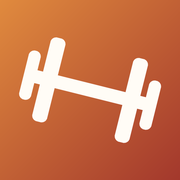
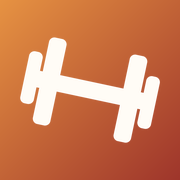
Иконка в высоком разрешении и с безопасной зоной
Рисуется восьмикратным сглаживанием, гриф утолщён ради читаемости на
48 пикселях. Добавлен отдельный вариант с безопасной зоной для круглых
масок и размер 192. Генератор make_icons.py собирает всё разом,
включая слои адаптивной иконки Android.

Changed region(s): [[0.0833, 0.1944, 0.6944, 0.7778], [0.3056, 0.2222, 0.9167, 0.7778], [0.6389, 0.7778, 0.7222, 0.8056]]

diff --git a/sw.js b/sw.js
@@ -1,6 +1,6 @@
 // Кэш приложения: работает офлайн, обновляется при смене VERSION
-const VERSION = 'fullbody-v24';
-const ASSETS = ['.', 'index.html', 'data.js?v=7', 'manifest.json', 'icon-180.png', 'icon-512.png'];
+const VERSION = 'fullbody-v25';
+const ASSETS = ['.', 'index.html', 'data.js?v=7', 'manifest.json', 'icon-180.png?v=2', 'icon-192.png?v=2', 'icon-512.png?v=2', 'icon-512-maskable.png'];
 
 self.addEventListener('install', e => {
   e.waitUntil(caches.open(VERSION).then(c => c.addAll(ASSETS)).then(() => self.skipWaiting()));

diff --git a/index.html b/index.html
@@ -9,8 +9,8 @@
 <meta name="apple-mobile-web-app-capable" content="yes">
 <meta name="apple-mobile-web-app-status-bar-style" content="default">
 <meta name="apple-mobile-web-app-title" content="Fullbody">
-<link rel="apple-touch-icon" href="icon-180.png">
-<link rel="icon" href="icon-180.png">
+<link rel="apple-touch-icon" href="icon-180.png?v=2">
+<link rel="icon" href="icon-180.png?v=2">
 <style>
 /* Тема задаёт только палитру: фон, линии и три акцента. Остальное общее. */
 :root{

diff --git a/make_icons.py b/make_icons.py
@@ -1,0 +1,102 @@
+# -*- coding: utf-8 -*-
+"""Генерирует иконки: адаптивные слои для Android, иконки для сайта и Play Market.
+
+Рисуем с восьмикратным запасом и уменьшаем по Ланцошу — края получаются чистыми
+даже на 48 пикселях. Штанга держится внутри безопасной зоны, чтобы круглая маска
+лаунчера не срезала блины.
+"""
+import io
+import os
+from PIL import Image, ImageDraw
+
+SS = 8                      # кратность сглаживания
+TOP = (0xE6, 0x92, 0x42)    # янтарь
+BOT = (0x9E, 0x35, 0x2B)    # терракота
+INK = (255, 252, 246)
+
+OUT_APP = os.path.dirname(os.path.abspath(__file__))
+OUT_ANDROID = os.path.join(os.path.dirname(OUT_APP), 'fullbody-android', 'app', 'src', 'main', 'res')
+
+
+def lerp(a, b, t):
+    return tuple(round(a[i] + (b[i] - a[i]) * t) for i in range(3))
+
+
+def background(px):
+    """Диагональная заливка от янтаря к терракоте."""
+    S = px * SS
+    img = Image.new('RGB', (S, S))
+    d = ImageDraw.Draw(img)
+    for i in range(S * 2):
+        d.line([(i, 0), (0, i)], fill=lerp(TOP, BOT, i / (S * 2 - 1)), width=2)
+    return img.resize((px, px), Image.LANCZOS)
+
+
+def barbell(px, width_ratio, rot=-12):
+    """Штанга на прозрачном фоне. width_ratio — доля ширины холста."""
+    S = px * SS
+    lay = Image.new('RGBA', (S, S), (0, 0, 0, 0))
+    p = ImageDraw.Draw(lay)
+    cy = S / 2
+    half = S * width_ratio / 2          # половина ширины штанги
+    u = half / 66.0                     # масштаб: половина = 66 условных единиц
+
+    # гриф — потолще, иначе на 48 пикселях теряется
+    p.rounded_rectangle([cy - half, cy - 8.5 * u, cy + half, cy + 8.5 * u],
+                        radius=8.5 * u, fill=INK)
+    # блины: (смещение от центра, полуширина, полувысота)
+    for off, w, h in ((61, 7, 27), (42, 9, 45)):
+        for sign in (-1, 1):
+            x = cy + sign * off * u
+            p.rounded_rectangle([x - w * u, cy - h * u, x + w * u, cy + h * u],
+                                radius=5.5 * u, fill=INK)
+    if rot:
+        lay = lay.rotate(rot, resample=Image.BICUBIC, center=(S / 2, S / 2))
+    return lay.resize((px, px), Image.LANCZOS)
+
+
+def composed(px, width_ratio):
+    """Готовая квадратная иконка: фон плюс штанга."""
+    bg = background(px).convert('RGBA')
+    return Image.alpha_composite(bg, barbell(px, width_ratio)).convert('RGB')
+
+
+def save(img, path):
+    os.makedirs(os.path.dirname(path), exist_ok=True)
+    img.save(path, 'PNG', optimize=True)
+
+
+# ── Android: адаптивная иконка ───────────────────────────────────────
+# Холст 108dp, безопасная зона — центральные 66dp. Держим штангу в 60%,
+# тогда её не срежет ни круглая, ни квадратная маска.
+ADAPTIVE = {'mdpi': 108, 'hdpi': 162, 'xhdpi': 216, 'xxhdpi': 324, 'xxxhdpi': 432}
+LEGACY = {'mdpi': 48, 'hdpi': 72, 'xhdpi': 96, 'xxhdpi': 144, 'xxxhdpi': 192}
+
+if os.path.isdir(OUT_ANDROID):
+    for dpi, px in ADAPTIVE.items():
+        save(background(px), f'{OUT_ANDROID}/mipmap-{dpi}/ic_launcher_background.png')
+        save(barbell(px, 0.60), f'{OUT_ANDROID}/mipmap-{dpi}/ic_launcher_foreground.png')
+    for dpi, px in LEGACY.items():
+        save(composed(px, 0.72), f'{OUT_ANDROID}/mipmap-{dpi}/ic_launcher.png')
+        save(composed(px, 0.60), f'{OUT_ANDROID}/mipmap-{dpi}/ic_maskable.png')
+
+    xml = ('<?xml version="1.0" encoding="utf-8"?>\n'
+           '<adaptive-icon xmlns:android="http://schemas.android.com/apk/res/android">\n'
+           '    <background android:drawable="@mipmap/ic_launcher_background" />\n'
+           '    <foreground android:drawable="@mipmap/ic_launcher_foreground" />\n'
+           '    <monochrome android:drawable="@mipmap/ic_launcher_foreground" />\n'
+           '</adaptive-icon>\n')
+    for name in ('ic_launcher.xml', 'ic_launcher_round.xml', 'ic_maskable.xml'):
+        path = f'{OUT_ANDROID}/mipmap-anydpi-v26/{name}'
+        if name == 'ic_maskable.xml' and not os.path.exists(path):
+            continue
+        io.open(path, 'w', encoding='utf-8', newline='\n').write(xml)
+    print('Android: слои и все плотности готовы')
+
+# ── Сайт и Play Market ───────────────────────────────────────────────
+save(composed(180, 0.72), f'{OUT_APP}/icon-180.png')      # экран «Домой» на iOS
+save(composed(192, 0.72), f'{OUT_APP}/icon-192.png')
+save(composed(512, 0.72), f'{OUT_APP}/icon-512.png')
+save(composed(512, 0.60), f'{OUT_APP}/icon-512-maskable.png')
+save(composed(512, 0.72), f'{OUT_APP}/play-icon-512.png')  # карточка в Play Market
+print('Сайт: 180, 192, 512, 512 с безопасной зоной')
